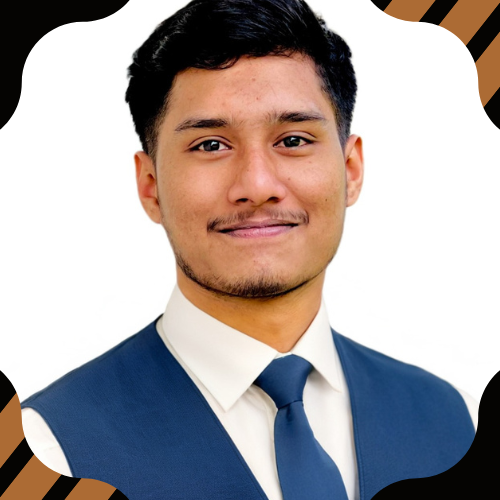
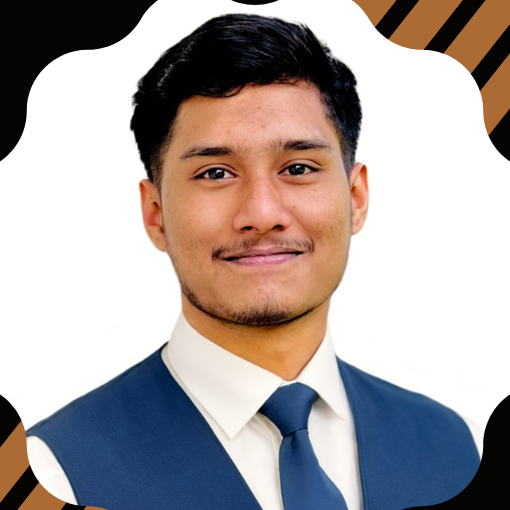
Add Arabic local SEO case, new projects, fix hero crop
- Case study now names dammamusedfurniture.com (Arabic RTL local SEO)
  with a live link; "multilingual" corrected to Arabic (RTL)
- Work section: add StayEase, Dammam Used Furniture and Horizon Travels
  with screenshots; StayEase and Dammam lead as the top two cards
- Re-crop hero portrait with headroom so hair is not cut off
- Update llms.txt, README note and Arabic SEO keyword

diff --git a/components/Work.tsx b/components/Work.tsx
@@ -8,44 +8,53 @@ export default function Work() {
       <div className="container-x">
         <span className="eyebrow">Selected work</span>
         <h2 className="section-title">Websites and web apps I have built</h2>
-        <p className="section-lead">A few full-stack and front-end projects. More on GitHub.</p>
+        <p className="section-lead">Live projects you can open and try. More on GitHub.</p>
 
-        <div className="mt-12 grid gap-6 md:grid-cols-2">
-          {projects.map((p) => (
-            <article key={p.name} className="card card-hover group overflow-hidden p-0">
-              <div className="relative aspect-[16/10] overflow-hidden bg-surface">
-                <Image
-                  src={p.image}
-                  alt={`${p.name} website screenshot`}
-                  fill
-                  sizes="(min-width: 768px) 45vw, 100vw"
-                  className="object-cover object-top transition-transform duration-500 group-hover:scale-[1.03]"
-                />
-              </div>
-              <div className="p-6">
-                <p className="text-xs font-semibold uppercase tracking-wider text-sky">{p.kind}</p>
-                <h3 className="mt-1 text-xl font-semibold">{p.name}</h3>
-                <p className="mt-2 text-sm leading-relaxed text-muted">{p.text}</p>
-                <ul className="mt-4 flex flex-wrap gap-2" aria-label={`${p.name} technologies`}>
-                  {p.tech.map((t) => (
-                    <li key={t} className="chip">
-                      {t}
-                    </li>
-                  ))}
-                </ul>
-                <div className="mt-5 flex flex-wrap gap-3">
-                  <a href={p.live} target="_blank" rel="noopener noreferrer" className="btn-ghost h-10 px-4">
-                    Live site <ArrowUpRight size={14} />
-                  </a>
-                  {p.code && (
-                    <a href={p.code} target="_blank" rel="noopener noreferrer" className="btn-ghost h-10 px-4">
-                      <Github size={14} /> Code
-                    </a>
-                  )}
+        <div className="mt-12 grid gap-6 md:grid-cols-2 lg:grid-cols-6">
+          {projects.map((p, index) => {
+            const top = index < 2;
+            const hasCaseStudy = "featured" in p && p.featured;
+            return (
+              <article key={p.name} className={`card card-hover group overflow-hidden p-0 ${top ? "lg:col-span-3" : "lg:col-span-2"}`}>
+                <div className={`relative overflow-hidden bg-surface ${top ? "aspect-[11/5]" : "aspect-[16/10]"}`}>
+                  <Image
+                    src={p.image}
+                    alt={`${p.name} website screenshot`}
+                    fill
+                    sizes={top ? "(min-width: 1024px) 50vw, (min-width: 768px) 45vw, 100vw" : "(min-width: 1024px) 33vw, (min-width: 768px) 45vw, 100vw"}
+                    className="object-cover object-top transition-transform duration-500 group-hover:scale-[1.03]"
+                  />
                 </div>
-              </div>
-            </article>
-          ))}
+                <div className="p-6">
+                  <p className="text-xs font-semibold uppercase tracking-wider text-sky">{p.kind}</p>
+                  <h3 className="mt-1 text-xl font-semibold">{p.name}</h3>
+                  <p className="mt-2 text-sm leading-relaxed text-muted">{p.text}</p>
+                  <ul className="mt-4 flex flex-wrap gap-2" aria-label={`${p.name} technologies`}>
+                    {p.tech.map((t) => (
+                      <li key={t} className="chip">
+                        {t}
+                      </li>
+                    ))}
+                  </ul>
+                  <div className="mt-5 flex flex-wrap gap-3">
+                    <a href={p.live} target="_blank" rel="noopener noreferrer" className="btn-ghost h-10 px-4">
+                      Live site <ArrowUpRight size={14} />
+                    </a>
+                    {hasCaseStudy && (
+                      <a href="#case-study" className="btn-ghost h-10 px-4">
+                        Read the case study
+                      </a>
+                    )}
+                    {p.code && (
+                      <a href={p.code} target="_blank" rel="noopener noreferrer" className="btn-ghost h-10 px-4">
+                        <Github size={14} /> Code
+                      </a>
+                    )}
+                  </div>
+                </div>
+              </article>
+            );
+          })}
         </div>
 
         <div className="mt-10 text-center">

diff --git a/lib/site.ts b/lib/site.ts
@@ -31,7 +31,7 @@ export const services = [
   {
     title: "Next.js websites",
     text: "Fast, mobile-first, server-rendered websites built with Next.js, React and TypeScript, ready to be crawled and ready to convert.",
-    points: ["Core Web Vitals focused", "Clean, scalable code", "Multilingual when you need it"],
+    points: ["Core Web Vitals focused", "Clean, scalable code", "RTL and Arabic-ready builds"],
   },
   {
     title: "WordPress development",
@@ -62,11 +62,13 @@ export const services = [
 
 export const caseStudy = {
   tag: "Case study",
-  title: "A local business website: 7x more organic clicks, no ads",
+  title: "Arabic local SEO: 7x more organic clicks, no ads",
   intro:
-    "A local service business with a brand-new website and almost no search visibility. The goal: get found by nearby customers on Google, without paying for ads.",
+    "dammamusedfurniture.com buys used furniture, air conditioners and appliances in Dammam, Khobar, Qatif and Jubail. It started with a brand-new website and almost no search visibility. The goal: get found by nearby customers on Google, without paying for ads.",
+  liveUrl: "https://www.dammamusedfurniture.com/",
+  liveLabel: "Visit dammamusedfurniture.com",
   did: [
-    "Built a fast, mobile-first, multilingual website with Next.js and Tailwind CSS.",
+    "Built a fast, mobile-first Arabic (RTL) website with Next.js and Tailwind CSS.",
     "Mapped keywords to each service page, targeting the searches customers actually make.",
     "Optimized page content, titles, headings and internal links, one page at a time.",
     "Ran a local SEO strategy and tracked progress in Google Search Console.",
@@ -80,10 +82,38 @@ export const caseStudy = {
     { value: "8.98K → 105K", label: "impressions, same 3 months a year apart" },
     { value: "100%", label: "organic. No paid ads" },
   ],
-  note: "Client name and domain withheld for privacy. Screenshots are from Google Search Console. Comparison period: Feb-May 2026 vs the same period in 2025.",
+  note: "Screenshots are from Google Search Console. Comparison period: Feb-May 2026 vs the same period in 2025.",
 };
 
 export const projects = [
+  {
+    name: "StayEase",
+    kind: "Hotel booking website",
+    text: "A boutique hotel website with room search by dates and guests, a rooms listing with filters, and user accounts.",
+    image: "/projects/stayease.png",
+    tech: ["Next.js", "Responsive UI"],
+    live: "https://stayease-project.vercel.app/",
+    code: "",
+  },
+  {
+    name: "Dammam Used Furniture",
+    kind: "Arabic local SEO website",
+    text: "A fast Arabic (RTL) website for a used furniture and appliance buyer, built with Next.js and optimized for local search in Dammam, Khobar, Qatif and Jubail. See the case study above for the Search Console results.",
+    image: "/projects/dammam-used-furniture.png",
+    tech: ["Next.js", "Tailwind CSS", "Shadcn UI", "Framer Motion", "Arabic RTL", "Local SEO", "LocalBusiness schema"],
+    live: "https://www.dammamusedfurniture.com/",
+    code: "",
+    featured: true,
+  },
+  {
+    name: "Horizon Travels",
+    kind: "Travel agency website",
+    text: "A travel agency website with tour packages, destinations, travel services (air tickets, hotels, visa, Umrah and Hajj), client testimonials, an FAQ, and WhatsApp and free-quote calls to action.",
+    image: "/projects/horizon-travels.png",
+    tech: ["Next.js", "Responsive UI"],
+    live: "https://horizon-travelss.vercel.app/",
+    code: "",
+  },
   {
     name: "Outeq",
     kind: "E-commerce platform",

diff --git a/components/CaseStudy.tsx b/components/CaseStudy.tsx
@@ -1,5 +1,5 @@
 import Image from "next/image";
-import { Check } from "lucide-react";
+import { ArrowUpRight, Check } from "lucide-react";
 import { caseStudy } from "@/lib/site";
 
 export default function CaseStudy() {
@@ -9,6 +9,9 @@ export default function CaseStudy() {
         <span className="eyebrow">{caseStudy.tag}</span>
         <h2 className="section-title max-w-3xl">{caseStudy.title}</h2>
         <p className="section-lead">{caseStudy.intro}</p>
+        <a href={caseStudy.liveUrl} target="_blank" rel="noopener noreferrer" className="btn-ghost mt-6">
+          {caseStudy.liveLabel} <ArrowUpRight size={14} />
+        </a>
 
         <div className="mt-12 grid gap-10 lg:grid-cols-[0.9fr_1.1fr]">
           <div>

diff --git a/app/layout.tsx b/app/layout.tsx
@@ -19,6 +19,7 @@ export const metadata: Metadata = {
     "AEO",
     "GEO",
     "local SEO",
+    "Arabic SEO",
     "Google Ads",
     "Meta Ads",
     "freelance web developer",

diff --git a/README.md b/README.md
@@ -26,7 +26,7 @@ yarn start      # serve the production build
 - `components/`: page sections (Hero, Proof, Services, CaseStudy, Work, Skills, Process, About, Faq, Contact).
 - `app/layout.tsx`: metadata, Open Graph, and JSON-LD schema (WebSite, Person, ProfessionalService, FAQPage).
 - `app/sitemap.ts`, `app/robots.ts`, `app/opengraph-image.tsx`, `public/llms.txt`: search and AI crawler files.
-- `public/case-studies/`: Google Search Console screenshots. Keep the client domain and name out of these images.
+- `public/case-studies/`: Google Search Console screenshots. These images are cropped to the chart only (no browser header, account or property name).
 
 ## Contact form
 
